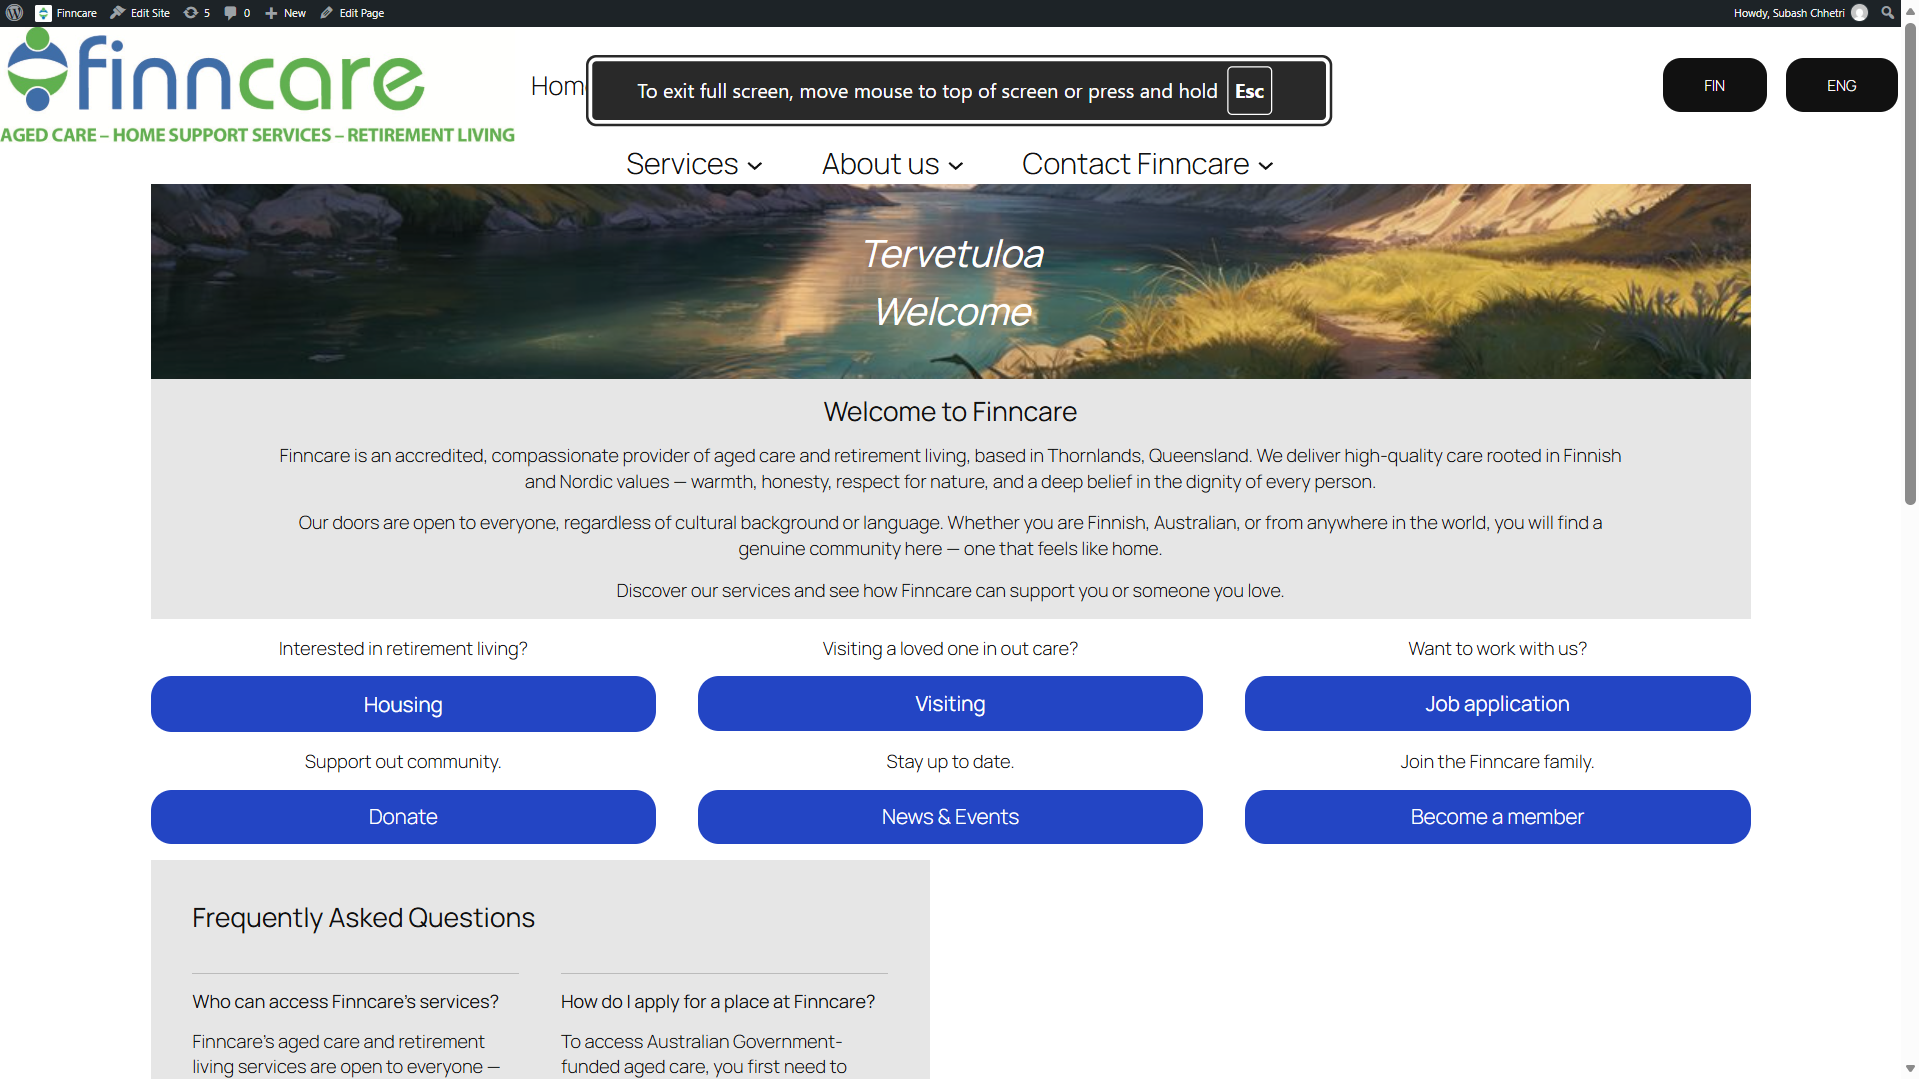
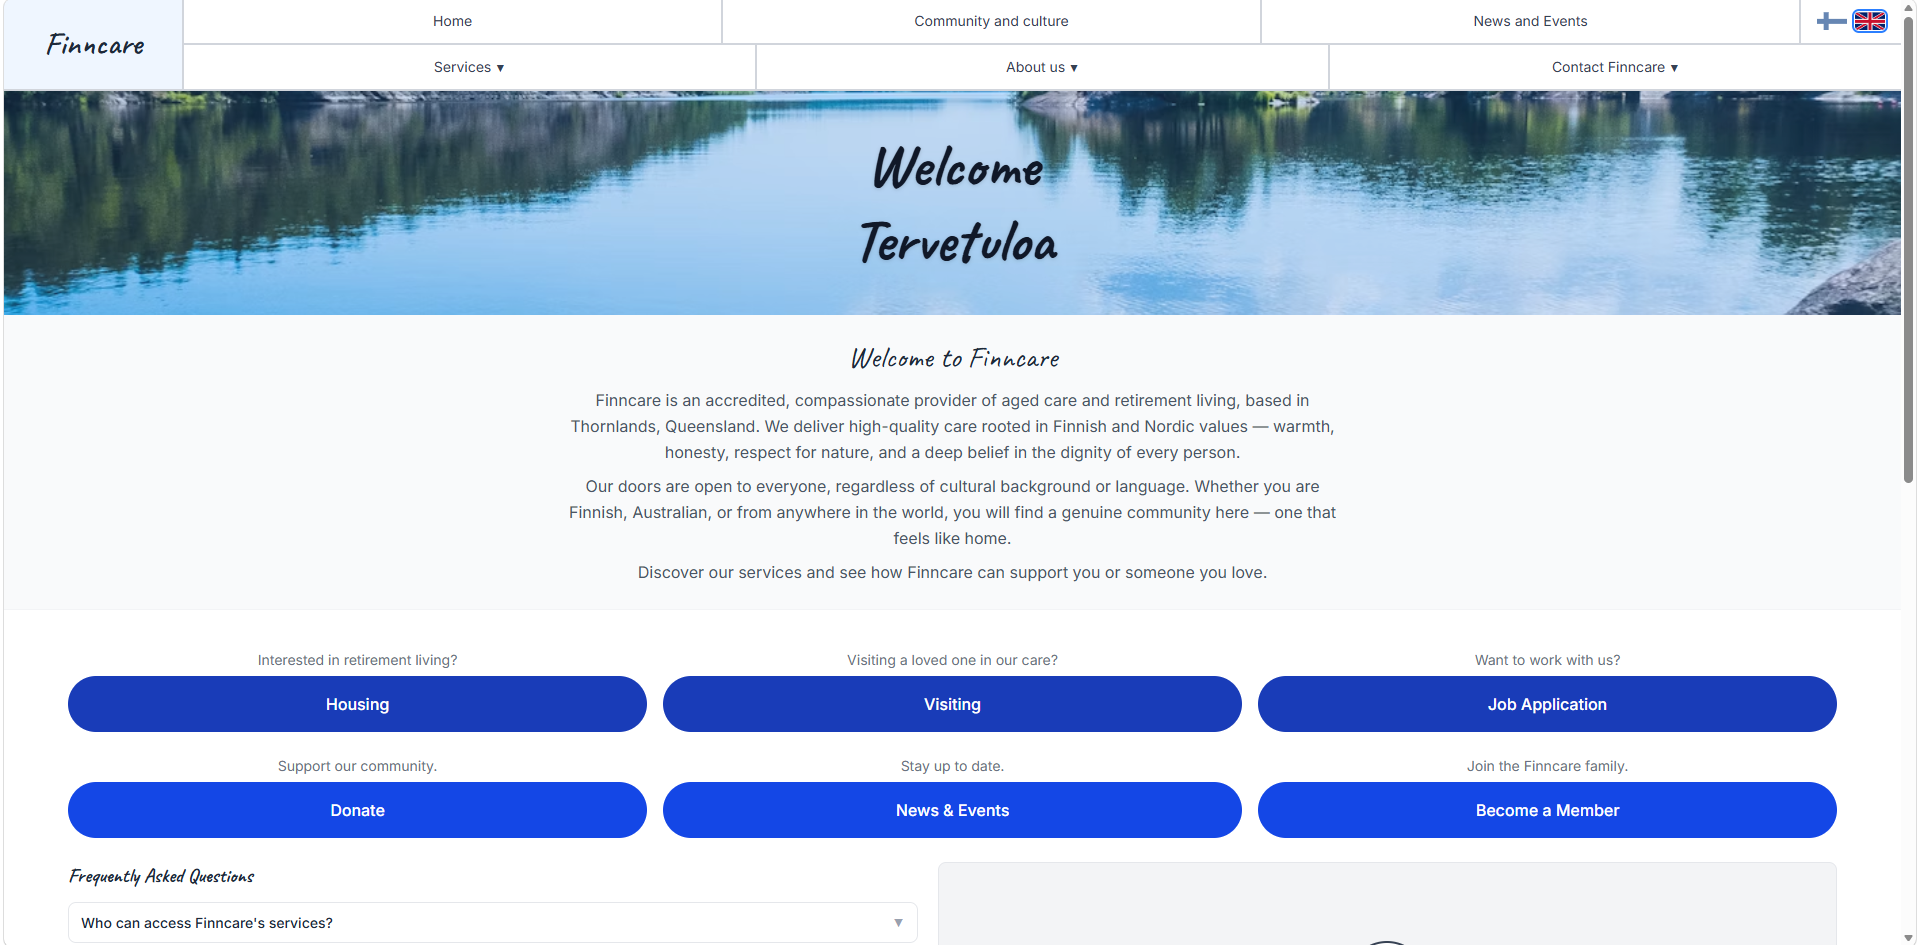
moved small project to mini-project section

diff --git a/index.html b/index.html
@@ -94,6 +94,25 @@
                     </div>
                 </div>
             </article>
+            
+            <article class="project-card">
+                <img class="project-img" src="wordpress-images\finncare-home.png" alt="finncare homepage">
+                <div>
+                    <h3>Finncare Website Redesign</h3>
+                    <p>"Redesigning a product owener's website in Wordpress as part of a Design Factory Project.Using WordPress for websites updates, Jira for task tracking, and Confluence for documentation."</p>
+                    <p>Skills: Figma, WordPress, UI/UX Design, Responsive Web Design, Prototying, Agile/Scrum,  Jira, Confluence</p>
+                    <div class="project-links">
+                        <a class="btn" href="finncare-case-study.html">Read more</a> <!-- here, adding or linking to a project case study -->
+                    </div>
+                </div>
+            </article>
+            
+        </div>
+    </section>
+
+    <section id="projects">
+        <h2>Mini-Projects</h2>
+        <div class="projects-grid">
             <article class="project-card">
                 <img class="project-img" src="images/.." alt="Quiz game">
                 <div>
@@ -105,17 +124,6 @@
                         <a class="btn" href="" target="_blank">Live Demo</a>
                         <a class="btn" href="student_mangmnt_systm.html">Read More</a>
                         <a class="btn btn-outline" href="https://github.com/Subashchhetri946/student_management_system" target="_blank">Github</a>
-                    </div>
-                </div>
-            </article>
-            <article class="project-card">
-                <img class="project-img" src="wordpress-images\finncare-home.png" alt="finncare homepage">
-                <div>
-                    <h3>Finncare Website Redesign</h3>
-                    <p>"Redesigning a product owener's website in Wordpress as part of a Design Factory Project.Using WordPress for websites updates, Jira for task tracking, and Confluence for documentation."</p>
-                    <p>Skills: Figma, WordPress, UI/UX Design, Responsive Web Design, Prototying, Agile/Scrum,  Jira, Confluence</p>
-                    <div class="project-links">
-                        <a class="btn" href="finncare-case-study.html">Read more</a> <!-- here, adding or linking to a project case study -->
                     </div>
                 </div>
             </article>
@@ -161,9 +169,9 @@
                     </div>
                 </div>
             </article>
+
         </div>
     </section>
-
     <!-- Contact Section -->
     <section id="contact">
         <h2>Contact Me</h2>        

diff --git a/finncare-case-study.html b/finncare-case-study.html
@@ -173,8 +173,15 @@
                     <img src="wordpress-images\sprint2.png" alt="" height="200px">
                     <img src="wordpress-images\sprint3.png" alt="" height="200px">
                 </section>
+
                 <section>
-                    <h3>07 - User testing</h3>
+                    <h3>07 - WordPress Development</h3>
+                    <p>Lorem ipsum dolor sit amet consectetur adipisicing elit. Architecto doloremque explicabo quod velit provident laudantium quam dolores! Quae perferendis asperiores hic nihil laboriosam ab molestias repellat expedita cumque, ipsum impedit?</p>
+                </section>
+
+
+                <section>
+                    <h3>08 - User testing</h3>
                     <p>We tested the website with users to identify usablility issues and collect feedback that could inform further improvements.</p>
                     <a href="Finncare_Website_User_Test (1).docx" target="_blank">View the user testing document</a>
                     <br>
